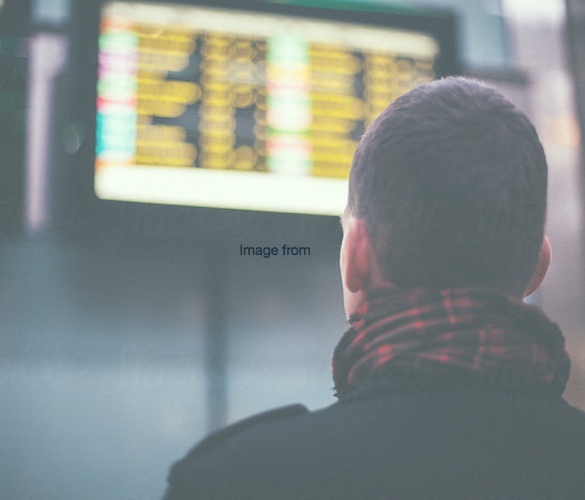
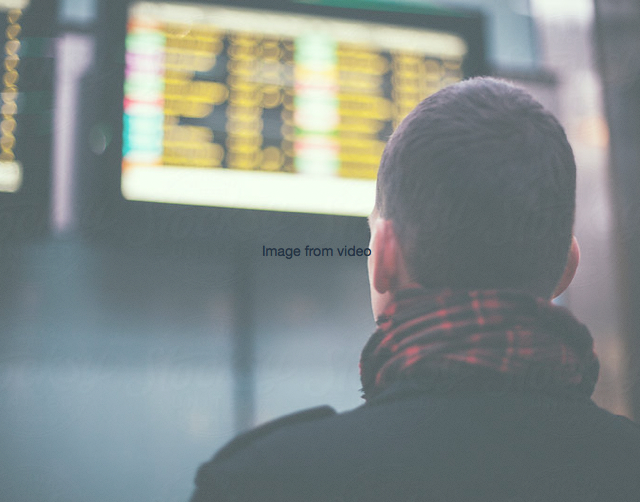
Styling optimized
Alles nu optimaal voor grote schermen, alleen video nog inbouwen

diff --git a/dist/js/scripts.min.js b/dist/js/scripts.min.js
@@ -1,1 +1,1 @@
-/*! ncast - v1.0.0 - 2015-01-21 */!function(){for(var a,b=function(){},c=["assert","clear","count","debug","dir","dirxml","error","exception","group","groupCollapsed","groupEnd","info","log","markTimeline","profile","profileEnd","table","time","timeEnd","timeStamp","trace","warn"],d=c.length,e=window.console=window.console||{};d--;)a=c[d],e[a]||(e[a]=b)}(),+function(a){"use strict";function b(){var a=document.createElement("bootstrap"),b={WebkitTransition:"webkitTransitionEnd",MozTransition:"transitionend",OTransition:"oTransitionEnd otransitionend",transition:"transitionend"};for(var c in b)if(void 0!==a.style[c])return{end:b[c]};return!1}a.fn.emulateTransitionEnd=function(b){var c=!1,d=this;a(this).one("bsTransitionEnd",function(){c=!0});var e=function(){c||a(d).trigger(a.support.transition.end)};return setTimeout(e,b),this},a(function(){a.support.transition=b(),a.support.transition&&(a.event.special.bsTransitionEnd={bindType:a.support.transition.end,delegateType:a.support.transition.end,handle:function(b){return a(b.target).is(this)?b.handleObj.handler.apply(this,arguments):void 0}})})}(jQuery),+function(a){"use strict";function b(b){var c,d=b.attr("data-target")||(c=b.attr("href"))&&c.replace(/.*(?=#[^\s]+$)/,"");return a(d)}function c(b){return this.each(function(){var c=a(this),e=c.data("bs.collapse"),f=a.extend({},d.DEFAULTS,c.data(),"object"==typeof b&&b);!e&&f.toggle&&"show"==b&&(f.toggle=!1),e||c.data("bs.collapse",e=new d(this,f)),"string"==typeof b&&e[b]()})}var d=function(b,c){this.$element=a(b),this.options=a.extend({},d.DEFAULTS,c),this.$trigger=a(this.options.trigger).filter('[href="#'+b.id+'"], [data-target="#'+b.id+'"]'),this.transitioning=null,this.options.parent?this.$parent=this.getParent():this.addAriaAndCollapsedClass(this.$element,this.$trigger),this.options.toggle&&this.toggle()};d.VERSION="3.3.1",d.TRANSITION_DURATION=350,d.DEFAULTS={toggle:!0,trigger:'[data-toggle="collapse"]'},d.prototype.dimension=function(){var a=this.$element.hasClass("width");return a?"width":"height"},d.prototype.show=function(){if(!this.transitioning&&!this.$element.hasClass("in")){var b,e=this.$parent&&this.$parent.find("> .panel").children(".in, .collapsing");if(!(e&&e.length&&(b=e.data("bs.collapse"),b&&b.transitioning))){var f=a.Event("show.bs.collapse");if(this.$element.trigger(f),!f.isDefaultPrevented()){e&&e.length&&(c.call(e,"hide"),b||e.data("bs.collapse",null));var g=this.dimension();this.$element.removeClass("collapse").addClass("collapsing")[g](0).attr("aria-expanded",!0),this.$trigger.removeClass("collapsed").attr("aria-expanded",!0),this.transitioning=1;var h=function(){this.$element.removeClass("collapsing").addClass("collapse in")[g](""),this.transitioning=0,this.$element.trigger("shown.bs.collapse")};if(!a.support.transition)return h.call(this);var i=a.camelCase(["scroll",g].join("-"));this.$element.one("bsTransitionEnd",a.proxy(h,this)).emulateTransitionEnd(d.TRANSITION_DURATION)[g](this.$element[0][i])}}}},d.prototype.hide=function(){if(!this.transitioning&&this.$element.hasClass("in")){var b=a.Event("hide.bs.collapse");if(this.$element.trigger(b),!b.isDefaultPrevented()){var c=this.dimension();this.$element[c](this.$element[c]())[0].offsetHeight,this.$element.addClass("collapsing").removeClass("collapse in").attr("aria-expanded",!1),this.$trigger.addClass("collapsed").attr("aria-expanded",!1),this.transitioning=1;var e=function(){this.transitioning=0,this.$element.removeClass("collapsing").addClass("collapse").trigger("hidden.bs.collapse")};return a.support.transition?void this.$element[c](0).one("bsTransitionEnd",a.proxy(e,this)).emulateTransitionEnd(d.TRANSITION_DURATION):e.call(this)}}},d.prototype.toggle=function(){this[this.$element.hasClass("in")?"hide":"show"]()},d.prototype.getParent=function(){return a(this.options.parent).find('[data-toggle="collapse"][data-parent="'+this.options.parent+'"]').each(a.proxy(function(c,d){var e=a(d);this.addAriaAndCollapsedClass(b(e),e)},this)).end()},d.prototype.addAriaAndCollapsedClass=function(a,b){var c=a.hasClass("in");a.attr("aria-expanded",c),b.toggleClass("collapsed",!c).attr("aria-expanded",c)};var e=a.fn.collapse;a.fn.collapse=c,a.fn.collapse.Constructor=d,a.fn.collapse.noConflict=function(){return a.fn.collapse=e,this},a(document).on("click.bs.collapse.data-api",'[data-toggle="collapse"]',function(d){var e=a(this);e.attr("data-target")||d.preventDefault();var f=b(e),g=f.data("bs.collapse"),h=g?"toggle":a.extend({},e.data(),{trigger:this});c.call(f,h)})}(jQuery),+function(a){"use strict";function b(c,d){var e=a.proxy(this.process,this);this.$body=a("body"),this.$scrollElement=a(a(c).is("body")?window:c),this.options=a.extend({},b.DEFAULTS,d),this.selector=(this.options.target||"")+" .nav li > a",this.offsets=[],this.targets=[],this.activeTarget=null,this.scrollHeight=0,this.$scrollElement.on("scroll.bs.scrollspy",e),this.refresh(),this.process()}function c(c){return this.each(function(){var d=a(this),e=d.data("bs.scrollspy"),f="object"==typeof c&&c;e||d.data("bs.scrollspy",e=new b(this,f)),"string"==typeof c&&e[c]()})}b.VERSION="3.3.1",b.DEFAULTS={offset:10},b.prototype.getScrollHeight=function(){return this.$scrollElement[0].scrollHeight||Math.max(this.$body[0].scrollHeight,document.documentElement.scrollHeight)},b.prototype.refresh=function(){var b="offset",c=0;a.isWindow(this.$scrollElement[0])||(b="position",c=this.$scrollElement.scrollTop()),this.offsets=[],this.targets=[],this.scrollHeight=this.getScrollHeight();var d=this;this.$body.find(this.selector).map(function(){var d=a(this),e=d.data("target")||d.attr("href"),f=/^#./.test(e)&&a(e);return f&&f.length&&f.is(":visible")&&[[f[b]().top+c,e]]||null}).sort(function(a,b){return a[0]-b[0]}).each(function(){d.offsets.push(this[0]),d.targets.push(this[1])})},b.prototype.process=function(){var a,b=this.$scrollElement.scrollTop()+this.options.offset,c=this.getScrollHeight(),d=this.options.offset+c-this.$scrollElement.height(),e=this.offsets,f=this.targets,g=this.activeTarget;if(this.scrollHeight!=c&&this.refresh(),b>=d)return g!=(a=f[f.length-1])&&this.activate(a);if(g&&b<e[0])return this.activeTarget=null,this.clear();for(a=e.length;a--;)g!=f[a]&&b>=e[a]&&(!e[a+1]||b<=e[a+1])&&this.activate(f[a])},b.prototype.activate=function(b){this.activeTarget=b,this.clear();var c=this.selector+'[data-target="'+b+'"],'+this.selector+'[href="'+b+'"]',d=a(c).parents("li").addClass("active");d.parent(".dropdown-menu").length&&(d=d.closest("li.dropdown").addClass("active")),d.trigger("activate.bs.scrollspy")},b.prototype.clear=function(){a(this.selector).parentsUntil(this.options.target,".active").removeClass("active")};var d=a.fn.scrollspy;a.fn.scrollspy=c,a.fn.scrollspy.Constructor=b,a.fn.scrollspy.noConflict=function(){return a.fn.scrollspy=d,this},a(window).on("load.bs.scrollspy.data-api",function(){a('[data-spy="scroll"]').each(function(){var b=a(this);c.call(b,b.data())})})}(jQuery),+function(a){"use strict";function b(b){return this.each(function(){var d=a(this),e=d.data("bs.carousel"),f=a.extend({},c.DEFAULTS,d.data(),"object"==typeof b&&b),g="string"==typeof b?b:f.slide;e||d.data("bs.carousel",e=new c(this,f)),"number"==typeof b?e.to(b):g?e[g]():f.interval&&e.pause().cycle()})}var c=function(b,c){this.$element=a(b),this.$indicators=this.$element.find(".carousel-indicators"),this.options=c,this.paused=this.sliding=this.interval=this.$active=this.$items=null,this.options.keyboard&&this.$element.on("keydown.bs.carousel",a.proxy(this.keydown,this)),"hover"==this.options.pause&&!("ontouchstart"in document.documentElement)&&this.$element.on("mouseenter.bs.carousel",a.proxy(this.pause,this)).on("mouseleave.bs.carousel",a.proxy(this.cycle,this))};c.VERSION="3.3.1",c.TRANSITION_DURATION=600,c.DEFAULTS={interval:5e3,pause:"hover",wrap:!0,keyboard:!0},c.prototype.keydown=function(a){if(!/input|textarea/i.test(a.target.tagName)){switch(a.which){case 37:this.prev();break;case 39:this.next();break;default:return}a.preventDefault()}},c.prototype.cycle=function(b){return b||(this.paused=!1),this.interval&&clearInterval(this.interval),this.options.interval&&!this.paused&&(this.interval=setInterval(a.proxy(this.next,this),this.options.interval)),this},c.prototype.getItemIndex=function(a){return this.$items=a.parent().children(".item"),this.$items.index(a||this.$active)},c.prototype.getItemForDirection=function(a,b){var c="prev"==a?-1:1,d=this.getItemIndex(b),e=(d+c)%this.$items.length;return this.$items.eq(e)},c.prototype.to=function(a){var b=this,c=this.getItemIndex(this.$active=this.$element.find(".item.active"));return a>this.$items.length-1||0>a?void 0:this.sliding?this.$element.one("slid.bs.carousel",function(){b.to(a)}):c==a?this.pause().cycle():this.slide(a>c?"next":"prev",this.$items.eq(a))},c.prototype.pause=function(b){return b||(this.paused=!0),this.$element.find(".next, .prev").length&&a.support.transition&&(this.$element.trigger(a.support.transition.end),this.cycle(!0)),this.interval=clearInterval(this.interval),this},c.prototype.next=function(){return this.sliding?void 0:this.slide("next")},c.prototype.prev=function(){return this.sliding?void 0:this.slide("prev")},c.prototype.slide=function(b,d){var e=this.$element.find(".item.active"),f=d||this.getItemForDirection(b,e),g=this.interval,h="next"==b?"left":"right",i="next"==b?"first":"last",j=this;if(!f.length){if(!this.options.wrap)return;f=this.$element.find(".item")[i]()}if(f.hasClass("active"))return this.sliding=!1;var k=f[0],l=a.Event("slide.bs.carousel",{relatedTarget:k,direction:h});if(this.$element.trigger(l),!l.isDefaultPrevented()){if(this.sliding=!0,g&&this.pause(),this.$indicators.length){this.$indicators.find(".active").removeClass("active");var m=a(this.$indicators.children()[this.getItemIndex(f)]);m&&m.addClass("active")}var n=a.Event("slid.bs.carousel",{relatedTarget:k,direction:h});return a.support.transition&&this.$element.hasClass("slide")?(f.addClass(b),f[0].offsetWidth,e.addClass(h),f.addClass(h),e.one("bsTransitionEnd",function(){f.removeClass([b,h].join(" ")).addClass("active"),e.removeClass(["active",h].join(" ")),j.sliding=!1,setTimeout(function(){j.$element.trigger(n)},0)}).emulateTransitionEnd(c.TRANSITION_DURATION)):(e.removeClass("active"),f.addClass("active"),this.sliding=!1,this.$element.trigger(n)),g&&this.cycle(),this}};var d=a.fn.carousel;a.fn.carousel=b,a.fn.carousel.Constructor=c,a.fn.carousel.noConflict=function(){return a.fn.carousel=d,this};var e=function(c){var d,e=a(this),f=a(e.attr("data-target")||(d=e.attr("href"))&&d.replace(/.*(?=#[^\s]+$)/,""));if(f.hasClass("carousel")){var g=a.extend({},f.data(),e.data()),h=e.attr("data-slide-to");h&&(g.interval=!1),b.call(f,g),h&&f.data("bs.carousel").to(h),c.preventDefault()}};a(document).on("click.bs.carousel.data-api","[data-slide]",e).on("click.bs.carousel.data-api","[data-slide-to]",e),a(window).on("load",function(){a('[data-ride="carousel"]').each(function(){var c=a(this);b.call(c,c.data())})})}(jQuery),$(document).ready(function(){var a=90;$(".navbar li a").click(function(b){b.preventDefault(),$($(this).attr("href"))[0].scrollIntoView(),scrollBy(0,-a)})});
+/*! ncast - v1.0.0 - 2015-01-22 */!function(){for(var a,b=function(){},c=["assert","clear","count","debug","dir","dirxml","error","exception","group","groupCollapsed","groupEnd","info","log","markTimeline","profile","profileEnd","table","time","timeEnd","timeStamp","trace","warn"],d=c.length,e=window.console=window.console||{};d--;)a=c[d],e[a]||(e[a]=b)}(),+function(a){"use strict";function b(){var a=document.createElement("bootstrap"),b={WebkitTransition:"webkitTransitionEnd",MozTransition:"transitionend",OTransition:"oTransitionEnd otransitionend",transition:"transitionend"};for(var c in b)if(void 0!==a.style[c])return{end:b[c]};return!1}a.fn.emulateTransitionEnd=function(b){var c=!1,d=this;a(this).one("bsTransitionEnd",function(){c=!0});var e=function(){c||a(d).trigger(a.support.transition.end)};return setTimeout(e,b),this},a(function(){a.support.transition=b(),a.support.transition&&(a.event.special.bsTransitionEnd={bindType:a.support.transition.end,delegateType:a.support.transition.end,handle:function(b){return a(b.target).is(this)?b.handleObj.handler.apply(this,arguments):void 0}})})}(jQuery),+function(a){"use strict";function b(b){var c,d=b.attr("data-target")||(c=b.attr("href"))&&c.replace(/.*(?=#[^\s]+$)/,"");return a(d)}function c(b){return this.each(function(){var c=a(this),e=c.data("bs.collapse"),f=a.extend({},d.DEFAULTS,c.data(),"object"==typeof b&&b);!e&&f.toggle&&"show"==b&&(f.toggle=!1),e||c.data("bs.collapse",e=new d(this,f)),"string"==typeof b&&e[b]()})}var d=function(b,c){this.$element=a(b),this.options=a.extend({},d.DEFAULTS,c),this.$trigger=a(this.options.trigger).filter('[href="#'+b.id+'"], [data-target="#'+b.id+'"]'),this.transitioning=null,this.options.parent?this.$parent=this.getParent():this.addAriaAndCollapsedClass(this.$element,this.$trigger),this.options.toggle&&this.toggle()};d.VERSION="3.3.1",d.TRANSITION_DURATION=350,d.DEFAULTS={toggle:!0,trigger:'[data-toggle="collapse"]'},d.prototype.dimension=function(){var a=this.$element.hasClass("width");return a?"width":"height"},d.prototype.show=function(){if(!this.transitioning&&!this.$element.hasClass("in")){var b,e=this.$parent&&this.$parent.find("> .panel").children(".in, .collapsing");if(!(e&&e.length&&(b=e.data("bs.collapse"),b&&b.transitioning))){var f=a.Event("show.bs.collapse");if(this.$element.trigger(f),!f.isDefaultPrevented()){e&&e.length&&(c.call(e,"hide"),b||e.data("bs.collapse",null));var g=this.dimension();this.$element.removeClass("collapse").addClass("collapsing")[g](0).attr("aria-expanded",!0),this.$trigger.removeClass("collapsed").attr("aria-expanded",!0),this.transitioning=1;var h=function(){this.$element.removeClass("collapsing").addClass("collapse in")[g](""),this.transitioning=0,this.$element.trigger("shown.bs.collapse")};if(!a.support.transition)return h.call(this);var i=a.camelCase(["scroll",g].join("-"));this.$element.one("bsTransitionEnd",a.proxy(h,this)).emulateTransitionEnd(d.TRANSITION_DURATION)[g](this.$element[0][i])}}}},d.prototype.hide=function(){if(!this.transitioning&&this.$element.hasClass("in")){var b=a.Event("hide.bs.collapse");if(this.$element.trigger(b),!b.isDefaultPrevented()){var c=this.dimension();this.$element[c](this.$element[c]())[0].offsetHeight,this.$element.addClass("collapsing").removeClass("collapse in").attr("aria-expanded",!1),this.$trigger.addClass("collapsed").attr("aria-expanded",!1),this.transitioning=1;var e=function(){this.transitioning=0,this.$element.removeClass("collapsing").addClass("collapse").trigger("hidden.bs.collapse")};return a.support.transition?void this.$element[c](0).one("bsTransitionEnd",a.proxy(e,this)).emulateTransitionEnd(d.TRANSITION_DURATION):e.call(this)}}},d.prototype.toggle=function(){this[this.$element.hasClass("in")?"hide":"show"]()},d.prototype.getParent=function(){return a(this.options.parent).find('[data-toggle="collapse"][data-parent="'+this.options.parent+'"]').each(a.proxy(function(c,d){var e=a(d);this.addAriaAndCollapsedClass(b(e),e)},this)).end()},d.prototype.addAriaAndCollapsedClass=function(a,b){var c=a.hasClass("in");a.attr("aria-expanded",c),b.toggleClass("collapsed",!c).attr("aria-expanded",c)};var e=a.fn.collapse;a.fn.collapse=c,a.fn.collapse.Constructor=d,a.fn.collapse.noConflict=function(){return a.fn.collapse=e,this},a(document).on("click.bs.collapse.data-api",'[data-toggle="collapse"]',function(d){var e=a(this);e.attr("data-target")||d.preventDefault();var f=b(e),g=f.data("bs.collapse"),h=g?"toggle":a.extend({},e.data(),{trigger:this});c.call(f,h)})}(jQuery),+function(a){"use strict";function b(c,d){var e=a.proxy(this.process,this);this.$body=a("body"),this.$scrollElement=a(a(c).is("body")?window:c),this.options=a.extend({},b.DEFAULTS,d),this.selector=(this.options.target||"")+" .nav li > a",this.offsets=[],this.targets=[],this.activeTarget=null,this.scrollHeight=0,this.$scrollElement.on("scroll.bs.scrollspy",e),this.refresh(),this.process()}function c(c){return this.each(function(){var d=a(this),e=d.data("bs.scrollspy"),f="object"==typeof c&&c;e||d.data("bs.scrollspy",e=new b(this,f)),"string"==typeof c&&e[c]()})}b.VERSION="3.3.1",b.DEFAULTS={offset:10},b.prototype.getScrollHeight=function(){return this.$scrollElement[0].scrollHeight||Math.max(this.$body[0].scrollHeight,document.documentElement.scrollHeight)},b.prototype.refresh=function(){var b="offset",c=0;a.isWindow(this.$scrollElement[0])||(b="position",c=this.$scrollElement.scrollTop()),this.offsets=[],this.targets=[],this.scrollHeight=this.getScrollHeight();var d=this;this.$body.find(this.selector).map(function(){var d=a(this),e=d.data("target")||d.attr("href"),f=/^#./.test(e)&&a(e);return f&&f.length&&f.is(":visible")&&[[f[b]().top+c,e]]||null}).sort(function(a,b){return a[0]-b[0]}).each(function(){d.offsets.push(this[0]),d.targets.push(this[1])})},b.prototype.process=function(){var a,b=this.$scrollElement.scrollTop()+this.options.offset,c=this.getScrollHeight(),d=this.options.offset+c-this.$scrollElement.height(),e=this.offsets,f=this.targets,g=this.activeTarget;if(this.scrollHeight!=c&&this.refresh(),b>=d)return g!=(a=f[f.length-1])&&this.activate(a);if(g&&b<e[0])return this.activeTarget=null,this.clear();for(a=e.length;a--;)g!=f[a]&&b>=e[a]&&(!e[a+1]||b<=e[a+1])&&this.activate(f[a])},b.prototype.activate=function(b){this.activeTarget=b,this.clear();var c=this.selector+'[data-target="'+b+'"],'+this.selector+'[href="'+b+'"]',d=a(c).parents("li").addClass("active");d.parent(".dropdown-menu").length&&(d=d.closest("li.dropdown").addClass("active")),d.trigger("activate.bs.scrollspy")},b.prototype.clear=function(){a(this.selector).parentsUntil(this.options.target,".active").removeClass("active")};var d=a.fn.scrollspy;a.fn.scrollspy=c,a.fn.scrollspy.Constructor=b,a.fn.scrollspy.noConflict=function(){return a.fn.scrollspy=d,this},a(window).on("load.bs.scrollspy.data-api",function(){a('[data-spy="scroll"]').each(function(){var b=a(this);c.call(b,b.data())})})}(jQuery),+function(a){"use strict";function b(b){return this.each(function(){var d=a(this),e=d.data("bs.carousel"),f=a.extend({},c.DEFAULTS,d.data(),"object"==typeof b&&b),g="string"==typeof b?b:f.slide;e||d.data("bs.carousel",e=new c(this,f)),"number"==typeof b?e.to(b):g?e[g]():f.interval&&e.pause().cycle()})}var c=function(b,c){this.$element=a(b),this.$indicators=this.$element.find(".carousel-indicators"),this.options=c,this.paused=this.sliding=this.interval=this.$active=this.$items=null,this.options.keyboard&&this.$element.on("keydown.bs.carousel",a.proxy(this.keydown,this)),"hover"==this.options.pause&&!("ontouchstart"in document.documentElement)&&this.$element.on("mouseenter.bs.carousel",a.proxy(this.pause,this)).on("mouseleave.bs.carousel",a.proxy(this.cycle,this))};c.VERSION="3.3.1",c.TRANSITION_DURATION=600,c.DEFAULTS={interval:5e3,pause:"hover",wrap:!0,keyboard:!0},c.prototype.keydown=function(a){if(!/input|textarea/i.test(a.target.tagName)){switch(a.which){case 37:this.prev();break;case 39:this.next();break;default:return}a.preventDefault()}},c.prototype.cycle=function(b){return b||(this.paused=!1),this.interval&&clearInterval(this.interval),this.options.interval&&!this.paused&&(this.interval=setInterval(a.proxy(this.next,this),this.options.interval)),this},c.prototype.getItemIndex=function(a){return this.$items=a.parent().children(".item"),this.$items.index(a||this.$active)},c.prototype.getItemForDirection=function(a,b){var c="prev"==a?-1:1,d=this.getItemIndex(b),e=(d+c)%this.$items.length;return this.$items.eq(e)},c.prototype.to=function(a){var b=this,c=this.getItemIndex(this.$active=this.$element.find(".item.active"));return a>this.$items.length-1||0>a?void 0:this.sliding?this.$element.one("slid.bs.carousel",function(){b.to(a)}):c==a?this.pause().cycle():this.slide(a>c?"next":"prev",this.$items.eq(a))},c.prototype.pause=function(b){return b||(this.paused=!0),this.$element.find(".next, .prev").length&&a.support.transition&&(this.$element.trigger(a.support.transition.end),this.cycle(!0)),this.interval=clearInterval(this.interval),this},c.prototype.next=function(){return this.sliding?void 0:this.slide("next")},c.prototype.prev=function(){return this.sliding?void 0:this.slide("prev")},c.prototype.slide=function(b,d){var e=this.$element.find(".item.active"),f=d||this.getItemForDirection(b,e),g=this.interval,h="next"==b?"left":"right",i="next"==b?"first":"last",j=this;if(!f.length){if(!this.options.wrap)return;f=this.$element.find(".item")[i]()}if(f.hasClass("active"))return this.sliding=!1;var k=f[0],l=a.Event("slide.bs.carousel",{relatedTarget:k,direction:h});if(this.$element.trigger(l),!l.isDefaultPrevented()){if(this.sliding=!0,g&&this.pause(),this.$indicators.length){this.$indicators.find(".active").removeClass("active");var m=a(this.$indicators.children()[this.getItemIndex(f)]);m&&m.addClass("active")}var n=a.Event("slid.bs.carousel",{relatedTarget:k,direction:h});return a.support.transition&&this.$element.hasClass("slide")?(f.addClass(b),f[0].offsetWidth,e.addClass(h),f.addClass(h),e.one("bsTransitionEnd",function(){f.removeClass([b,h].join(" ")).addClass("active"),e.removeClass(["active",h].join(" ")),j.sliding=!1,setTimeout(function(){j.$element.trigger(n)},0)}).emulateTransitionEnd(c.TRANSITION_DURATION)):(e.removeClass("active"),f.addClass("active"),this.sliding=!1,this.$element.trigger(n)),g&&this.cycle(),this}};var d=a.fn.carousel;a.fn.carousel=b,a.fn.carousel.Constructor=c,a.fn.carousel.noConflict=function(){return a.fn.carousel=d,this};var e=function(c){var d,e=a(this),f=a(e.attr("data-target")||(d=e.attr("href"))&&d.replace(/.*(?=#[^\s]+$)/,""));if(f.hasClass("carousel")){var g=a.extend({},f.data(),e.data()),h=e.attr("data-slide-to");h&&(g.interval=!1),b.call(f,g),h&&f.data("bs.carousel").to(h),c.preventDefault()}};a(document).on("click.bs.carousel.data-api","[data-slide]",e).on("click.bs.carousel.data-api","[data-slide-to]",e),a(window).on("load",function(){a('[data-ride="carousel"]').each(function(){var c=a(this);b.call(c,c.data())})})}(jQuery),$(document).ready(function(){$(".navbar a[href^='#']").on("click",function(a){a.preventDefault();var b=this.hash;$("html, body").animate({scrollTop:$(this.hash).offset().top-89},300,function(){window.location.hash=b})})});

diff --git a/app/css/style.css b/app/css/style.css
@@ -6307,11 +6307,12 @@ button.close {
   font-style: normal;
 }
 body {
+  background: #fff;
   padding-top: 90px;
   position: relative;
 }
 #site {
-  background: yellow;
+  background: #253546;
   margin: 0px auto;
   max-width: 1170px;
 }
@@ -6364,8 +6365,17 @@ h2 {
   margin-left: 15px;
 }
 .why {
+  overflow: hidden;
   clear: both;
   width: 100%;
+}
+.video_image {
+  background: url("../img/img-from-video.jpg") no-repeat center center;
+  background-color: white;
+}
+.calling_image {
+  background: url("../img/bellend-meisje.jpg") no-repeat center center;
+  background-color: #253546;
 }
 #n-cast {
   background: #F2F2F2;
@@ -6380,8 +6390,7 @@ h2 {
   color: #253546;
 }
 .map {
-  background: #ea4325;
-  background-image: url("../img/map.jpg");
+  background: #ea4325 url("../img/map.jpg") no-repeat;
 }
 .map .row {
   padding-top: 74px;
@@ -6395,12 +6404,6 @@ h2 {
   float: left;
   width: 50%;
   height: 500px;
-}
-.split.split-left {
-  background: #253546;
-}
-.split.split-right {
-  background: white;
 }
 .arrow-box {
   position: relative;
@@ -6464,6 +6467,9 @@ h2 {
 .card {
   border: 1px solid #C1C1C1;
   background: white;
+}
+.card img {
+  border-bottom: 1px solid #C1C1C1;
 }
 .card div {
   padding: 14px 14px;

diff --git a/dist/css/style.min.css b/dist/css/style.min.css
@@ -6307,11 +6307,12 @@ button.close {
   font-style: normal;
 }
 body {
+  background: #fff;
   padding-top: 90px;
   position: relative;
 }
 #site {
-  background: yellow;
+  background: #253546;
   margin: 0px auto;
   max-width: 1170px;
 }
@@ -6364,8 +6365,17 @@ h2 {
   margin-left: 15px;
 }
 .why {
+  overflow: hidden;
   clear: both;
   width: 100%;
+}
+.video_image {
+  background: url("../img/img-from-video.jpg") no-repeat center center;
+  background-color: white;
+}
+.calling_image {
+  background: url("../img/bellend-meisje.jpg") no-repeat center center;
+  background-color: #253546;
 }
 #n-cast {
   background: #F2F2F2;
@@ -6380,8 +6390,7 @@ h2 {
   color: #253546;
 }
 .map {
-  background: #ea4325;
-  background-image: url("../img/map.jpg");
+  background: #ea4325 url("../img/map.jpg") no-repeat;
 }
 .map .row {
   padding-top: 74px;
@@ -6395,12 +6404,6 @@ h2 {
   float: left;
   width: 50%;
   height: 500px;
-}
-.split.split-left {
-  background: #253546;
-}
-.split.split-right {
-  background: white;
 }
 .arrow-box {
   position: relative;
@@ -6464,6 +6467,9 @@ h2 {
 .card {
   border: 1px solid #C1C1C1;
   background: white;
+}
+.card img {
+  border-bottom: 1px solid #C1C1C1;
 }
 .card div {
   padding: 14px 14px;

diff --git a/app/less/style.less b/app/less/style.less
@@ -95,12 +95,13 @@
 @feature-color: #E7E7E7;
 
 body {
+	background: #fff;
 	padding-top: @navbar-height;
 	position: relative;
 }
 
 #site{
-	background: yellow;
+	background: @brand-info;
 	margin:0px auto;
 	max-width: 1170px;
 }
@@ -156,8 +157,17 @@ h2{
 	margin-left: 15px;
 }
 .why{
+	overflow: hidden;
 	clear: both;
 	width: 100%;
+}
+.video_image{
+	background: url("../img/img-from-video.jpg") no-repeat center center;
+	background-color: white;
+}
+.calling_image{
+	background: url("../img/bellend-meisje.jpg") no-repeat center center;
+	background-color: @brand-info;
 }
 #n-cast{
 	background: #F2F2F2;
@@ -172,8 +182,7 @@ h2{
 	color: @brand-info;
 }
 .map{
-	background: @brand-primary;
-	background-image: url("../img/map.jpg");
+	background: @brand-primary url("../img/map.jpg") no-repeat;
 }
 .map .row{
 	padding-top: 74px;
@@ -189,10 +198,8 @@ h2{
 	height: 500px;
 }
 .split.split-left{
-	background: @brand-info;
 }
 .split.split-right{
-	background: white;
 }
 .arrow-box {
 	position: relative;
@@ -248,6 +255,9 @@ h2{
 .card{
 	border: 1px solid #C1C1C1;
 	background: white;
+}
+.card img{
+	border-bottom: 1px solid #C1C1C1;
 }
 .card div{
 	padding: 14px 14px;

diff --git a/app/scripts/main.js b/app/scripts/main.js
@@ -1,10 +1,19 @@
  $(document).ready(function() {
- 	// navbar link fix, nodig ivm hoogte fixed navbar
- 	var offset = 90;
+ 	$(".navbar a[href^='#']").on('click', function(e) {
+	   // prevent default anchor click behavior
+	   e.preventDefault();
 
-	$('.navbar li a').click(function(event) {
-	    event.preventDefault();
-	    $($(this).attr('href'))[0].scrollIntoView();
-	    scrollBy(0, -offset);
+	   // store hash
+	   var hash = this.hash;
+
+	   // animate
+	   $('html, body').animate({
+	       scrollTop: $(this.hash).offset().top - 89
+	     }, 300, function(){
+
+	       // when done, add hash to url
+	       // (default click behaviour)
+	       window.location.hash = hash;
+	   });
 	});
 });

diff --git a/app/index.html b/app/index.html
@@ -64,8 +64,7 @@
 							</div>
 						</div>
 					</div>
-					<div class="split split-right">
-						<img class="img-responsive" src="img/img-from-video.jpg">
+					<div class="split split-right video_image">
 					</div>
 				</div>
 				<div class="worldwide">
@@ -81,8 +80,7 @@
 						</div>
 					</div>
 					<div class="what">
-						<div class="split split-left">
-							<img class="img-responsive" src="img/bellend-meisje.jpg">
+						<div class="split split-left calling_image">
 						</div>
 						<div class="split split-right arrow-box">
 							<div class="container-fluid">
